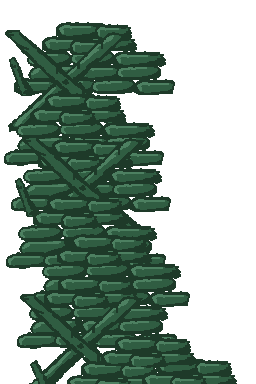
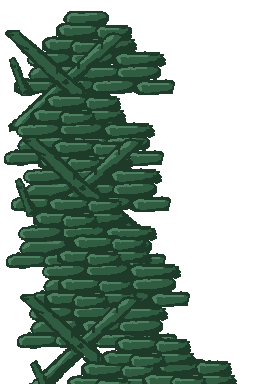
updated the sandbags

diff --git a/js/scenes/Scene2.js b/js/scenes/Scene2.js
@@ -19,11 +19,11 @@ class Scene2 extends Phaser.Scene {
 
 
         // Add foreground
-        this.foreground = this.add.image(this.cameras.main.width / 2, config.height - 210, 'foreground');
+        this.foreground = this.add.image(this.cameras.main.width / 2, config.height - 205, 'foreground');
 
 
         // Add  sandbags
-        this.sandbags = this.add.image(this.cameras.main.width - 300, config.height - 210, 'sandbags');
+        this.sandbags = this.add.image(this.cameras.main.width - 300, config.height - 194, 'sandbags');
 
 
         // Add player sprite
